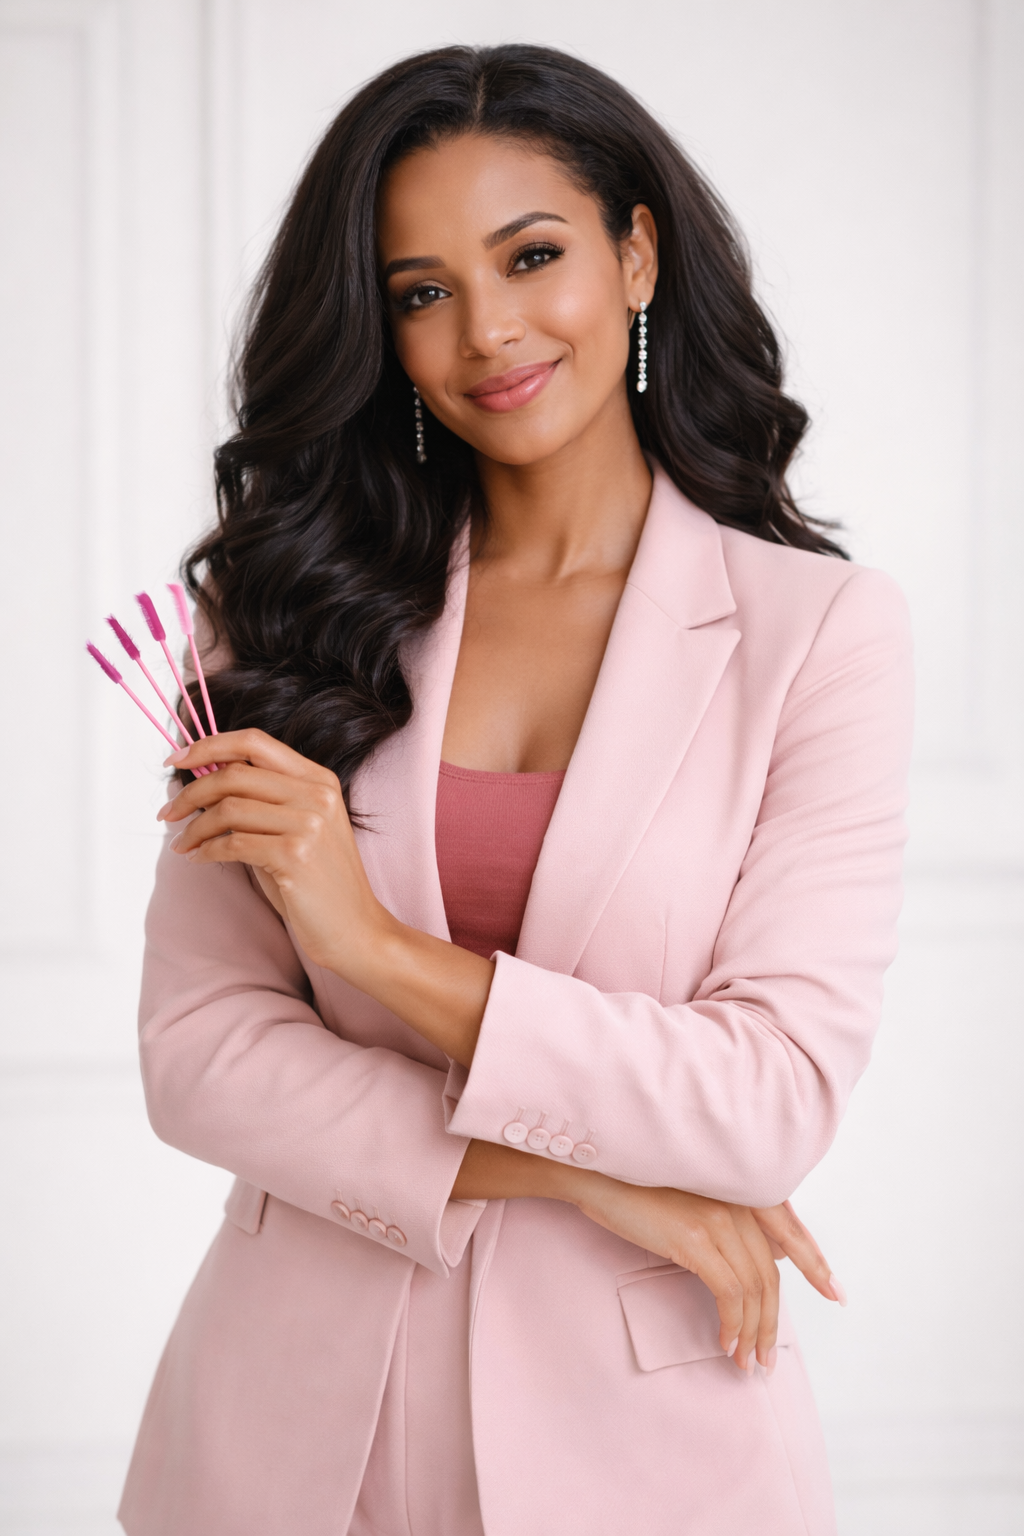
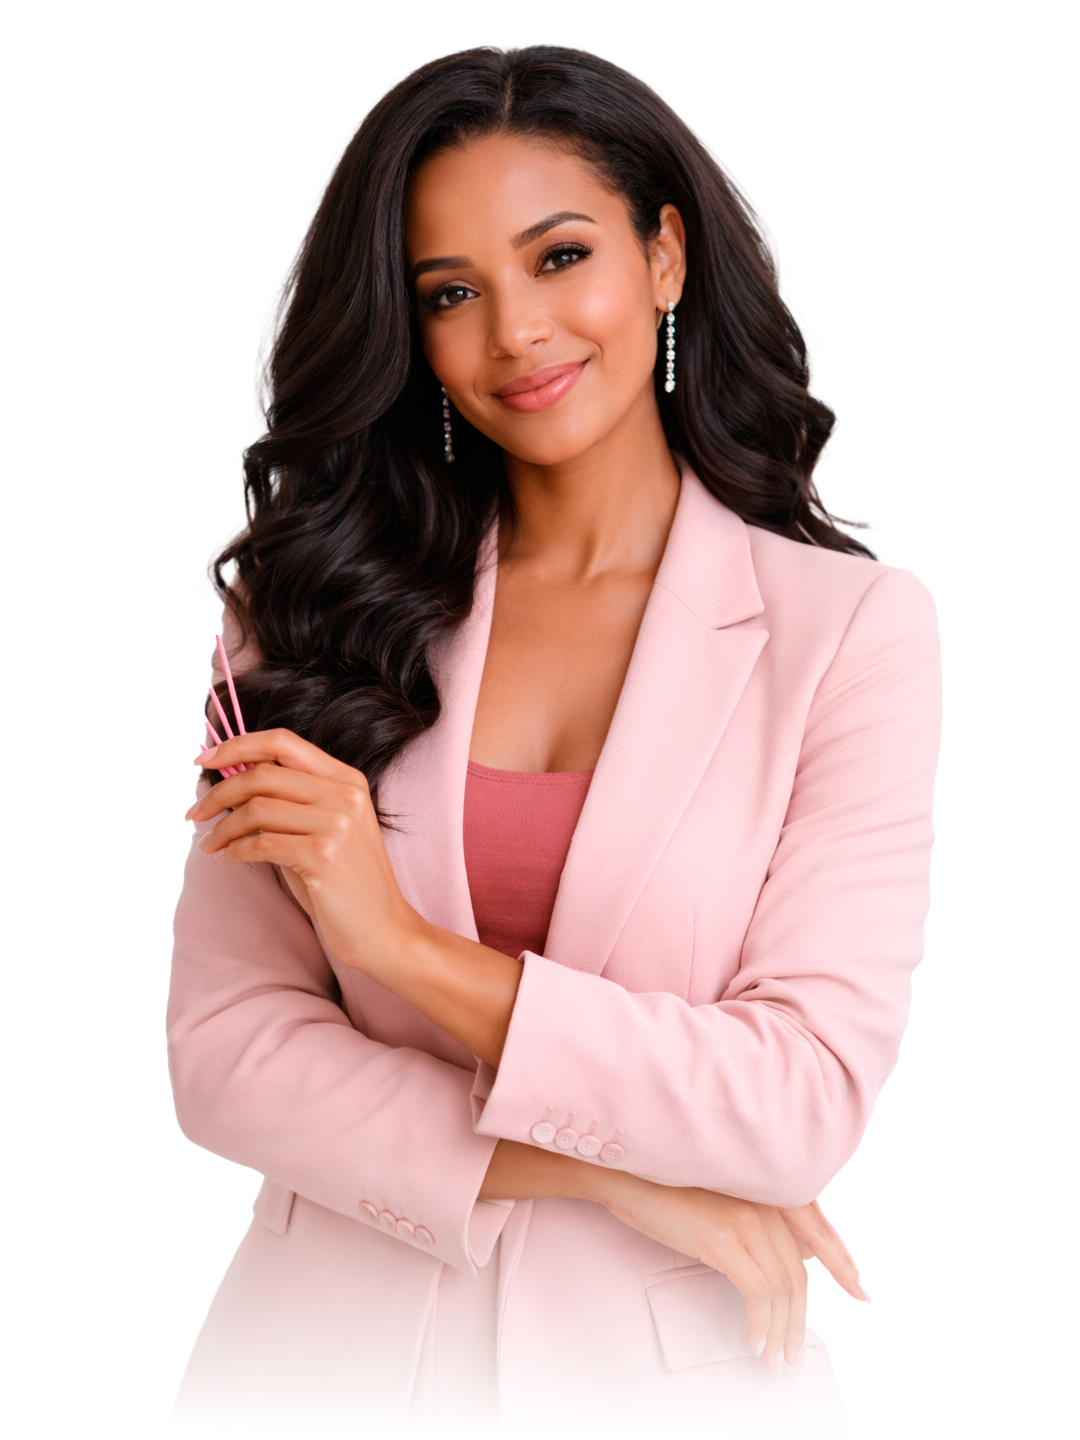
troca da foto

diff --git a/index.html b/index.html
@@ -368,7 +368,7 @@
                         <span class="contact-icon">📞</span>
                         <div class="contact-item-content">
                             <span class="contact-label">WhatsApp</span>
-                            <span class="contact-value">(21) 99999-9999</span>
+                            <span class="contact-value" style="color: inherit; text-decoration: none; pointer-events: none;">(21) 99999-9999</span>
                         </div>
                     </div>
                 </div>
@@ -384,11 +384,9 @@
                             <span>@ambarstudio</span>
                         </a>
                         <a href="https://wa.me/5521979834983?text=Ol%C3%A1%2C%20me%20interessei%20pelo%20servi%C3%A7o" target="_blank" class="social-link whatsapp">
-                            <svg width="24" height="24" viewBox="0 0 24 24" fill="none" stroke="currentColor" stroke-width="2">
-                                <path d="M21 11.5a8.38 8.38 0 0 1-.9 3.8 8.5 8.5 0 0 1-7.6 4.7 8.38 8.38 0 0 1-3.8-.9L3 21l1.9-5.7a8.38 8.38 0 0 1-.9-3.8 8.5 8.5 0 0 1 4.7-7.6 8.38 8.38 0 0 1 3.8-.9h.5a8.48 8.48 0 0 1 8 8v.5z"/>
-                            </svg>
-                            <span>Chamar no WhatsApp</span>
-                        </a>
+    <img src="https://upload.wikimedia.org/wikipedia/commons/6/6b/WhatsApp.svg" width="22" height="22" alt="WhatsApp">
+    <span>Chamar no WhatsApp</span>
+</a>
                     </div>
                 </div>
             </div>
